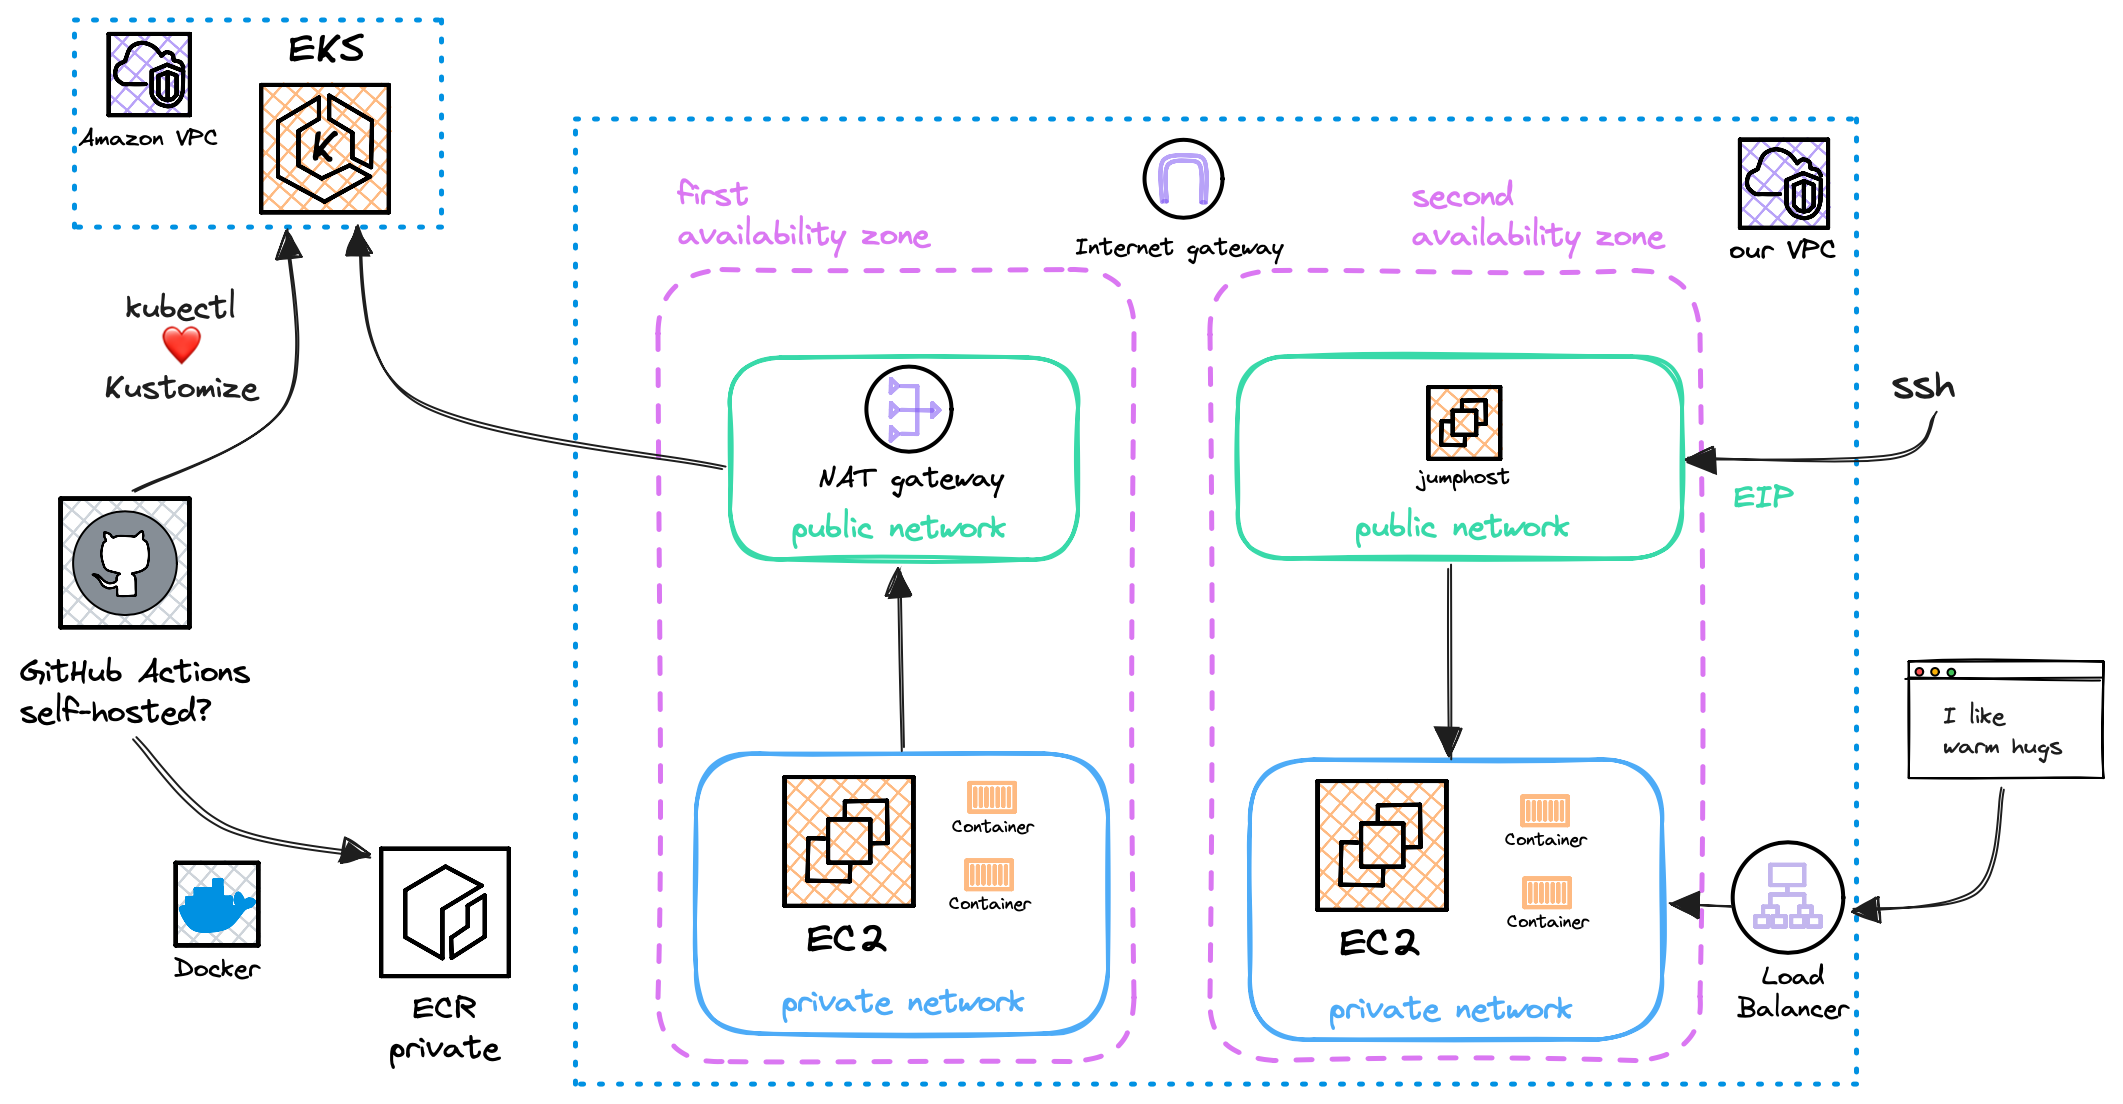
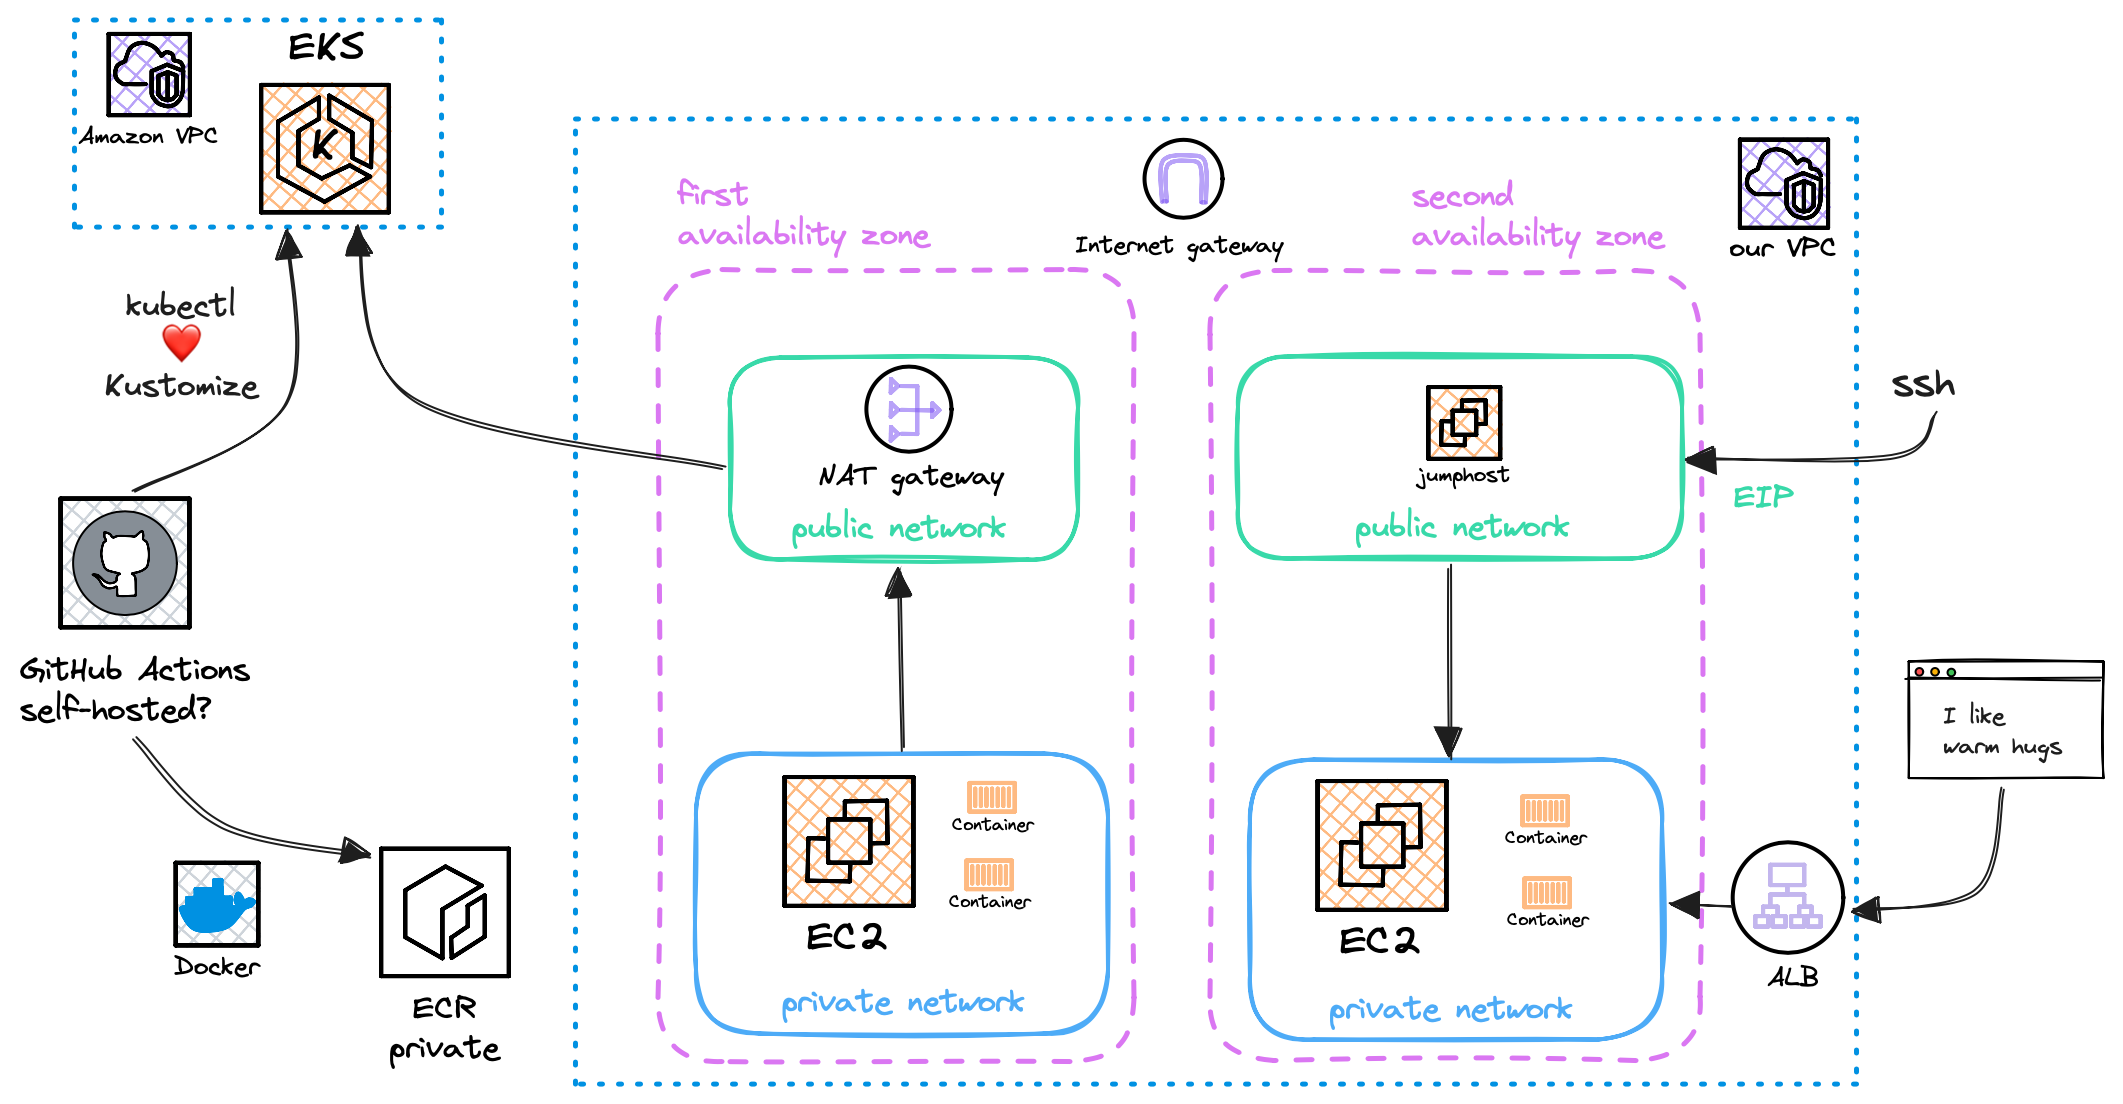
docs: update README.md

diff --git a/README.md b/README.md
@@ -48,12 +48,13 @@ The resulted image size is 8MB.
 | hug | 990MB | 12.1MB | 9.85MB | 7.87MB |
 | hug.slim | 8.88MB | 7.96MB | 8.08MB | 7.87MB |
 
-In the Kubernetes context; `hug` runs in its own namespace with enforcing pod security admission (PSA), it is scaled to 2 replicas and it is exposed as a service of type `LoadBalancer`. Pods are spread across nodes based on their hostname using `topologySpreadConstraints` (in our example, we deploy 1 node on each availability zone).
+In the Kubernetes context; `hug` runs in its own namespace with enforcing pod security admission (PSA), it is scaled to 2 replicas and it is exposed as a service of type `ClusterIP`. Pods are spread across nodes based on their hostname using `topologySpreadConstraints` (in our example, we deploy 1 node on each availability zone). AWS Load Balancer Controller manages external access to the services in a cluster by defining an Ingress resource, which in turn provisions an ALB.
 
 #### 📚 References
 * ["Distroless" Container Images](https://github.com/GoogleContainerTools/distroless/blob/main/README.md)
 * [slimtoolkit](https://github.com/slimtoolkit/slim)
 * [Image security](https://aws.github.io/aws-eks-best-practices/security/docs/image/)
+* [AWS Load Balancer Controller](https://kubernetes-sigs.github.io/aws-load-balancer-controller/v2.6/#aws-load-balancer-controller)
 
 ### ⚒ Infrastructure
 
@@ -144,18 +145,23 @@ terraform apply -var-file=environments/labs/proj.tfvars
 
 ```
 aws eks update-kubeconfig --name <aws-kube-cluster-name> --region <aws-region>
-
-kubectl -n hug get svc
-NAME          TYPE           CLUSTER-IP       EXTERNAL-IP                                                                PORT(S)          AGE
-hug-service   LoadBalancer   172.20.115.147   a7ce190b82a084080a60dc46c39c90f8-1208700454.eu-north-1.elb.amazonaws.com   8000:30827/TCP   2m2s
-
+```
+```
 kubectl -n hug get pods -o wide
 NAME                              READY   STATUS    RESTARTS   AGE     IP            NODE                                         NOMINATED NODE   READINESS GATES
-hug-deployment-58cc9f5f98-l4v6t   1/1     Running   0          2m14s   10.31.2.185   ip-10-31-2-159.eu-north-1.compute.internal   <none>           <none>
-hug-deployment-58cc9f5f98-q7bsr   1/1     Running   0          2m14s   10.31.1.72    ip-10-31-1-230.eu-north-1.compute.internal   <none>           <none>
+hug-deployment-59b9574b7b-f25kz   1/1     Running   0          3m11s   10.31.2.74    ip-10-31-2-212.eu-north-1.compute.internal   <none>           <none>
+hug-deployment-59b9574b7b-kl8xq   1/1     Running   0          3m11s   10.31.1.124   ip-10-31-1-33.eu-north-1.compute.internal    <none>           <none>
+
+kubectl -n hug get svc
+NAME          TYPE        CLUSTER-IP      EXTERNAL-IP   PORT(S)    AGE
+hug-service   ClusterIP   172.20.40.171   <none>        8000/TCP   3m39s
+
+kubectl -n hug get ingresses
+NAME          CLASS   HOSTS   ADDRESS                                                              PORTS   AGE
+hug-ingress   alb     *       k8s-hug-hugingre-84c4942858-459038605.eu-north-1.elb.amazonaws.com   80      105s
 ```
 ```
-curl ac8da6da346c84f7385e61b1ec0e1452-473064592.eu-north-1.elb.amazonaws.com:8000
+curl k8s-hug-hugingre-84c4942858-459038605.eu-north-1.elb.amazonaws.com
 I like warm hugs (3.0.1)
 ```
 
